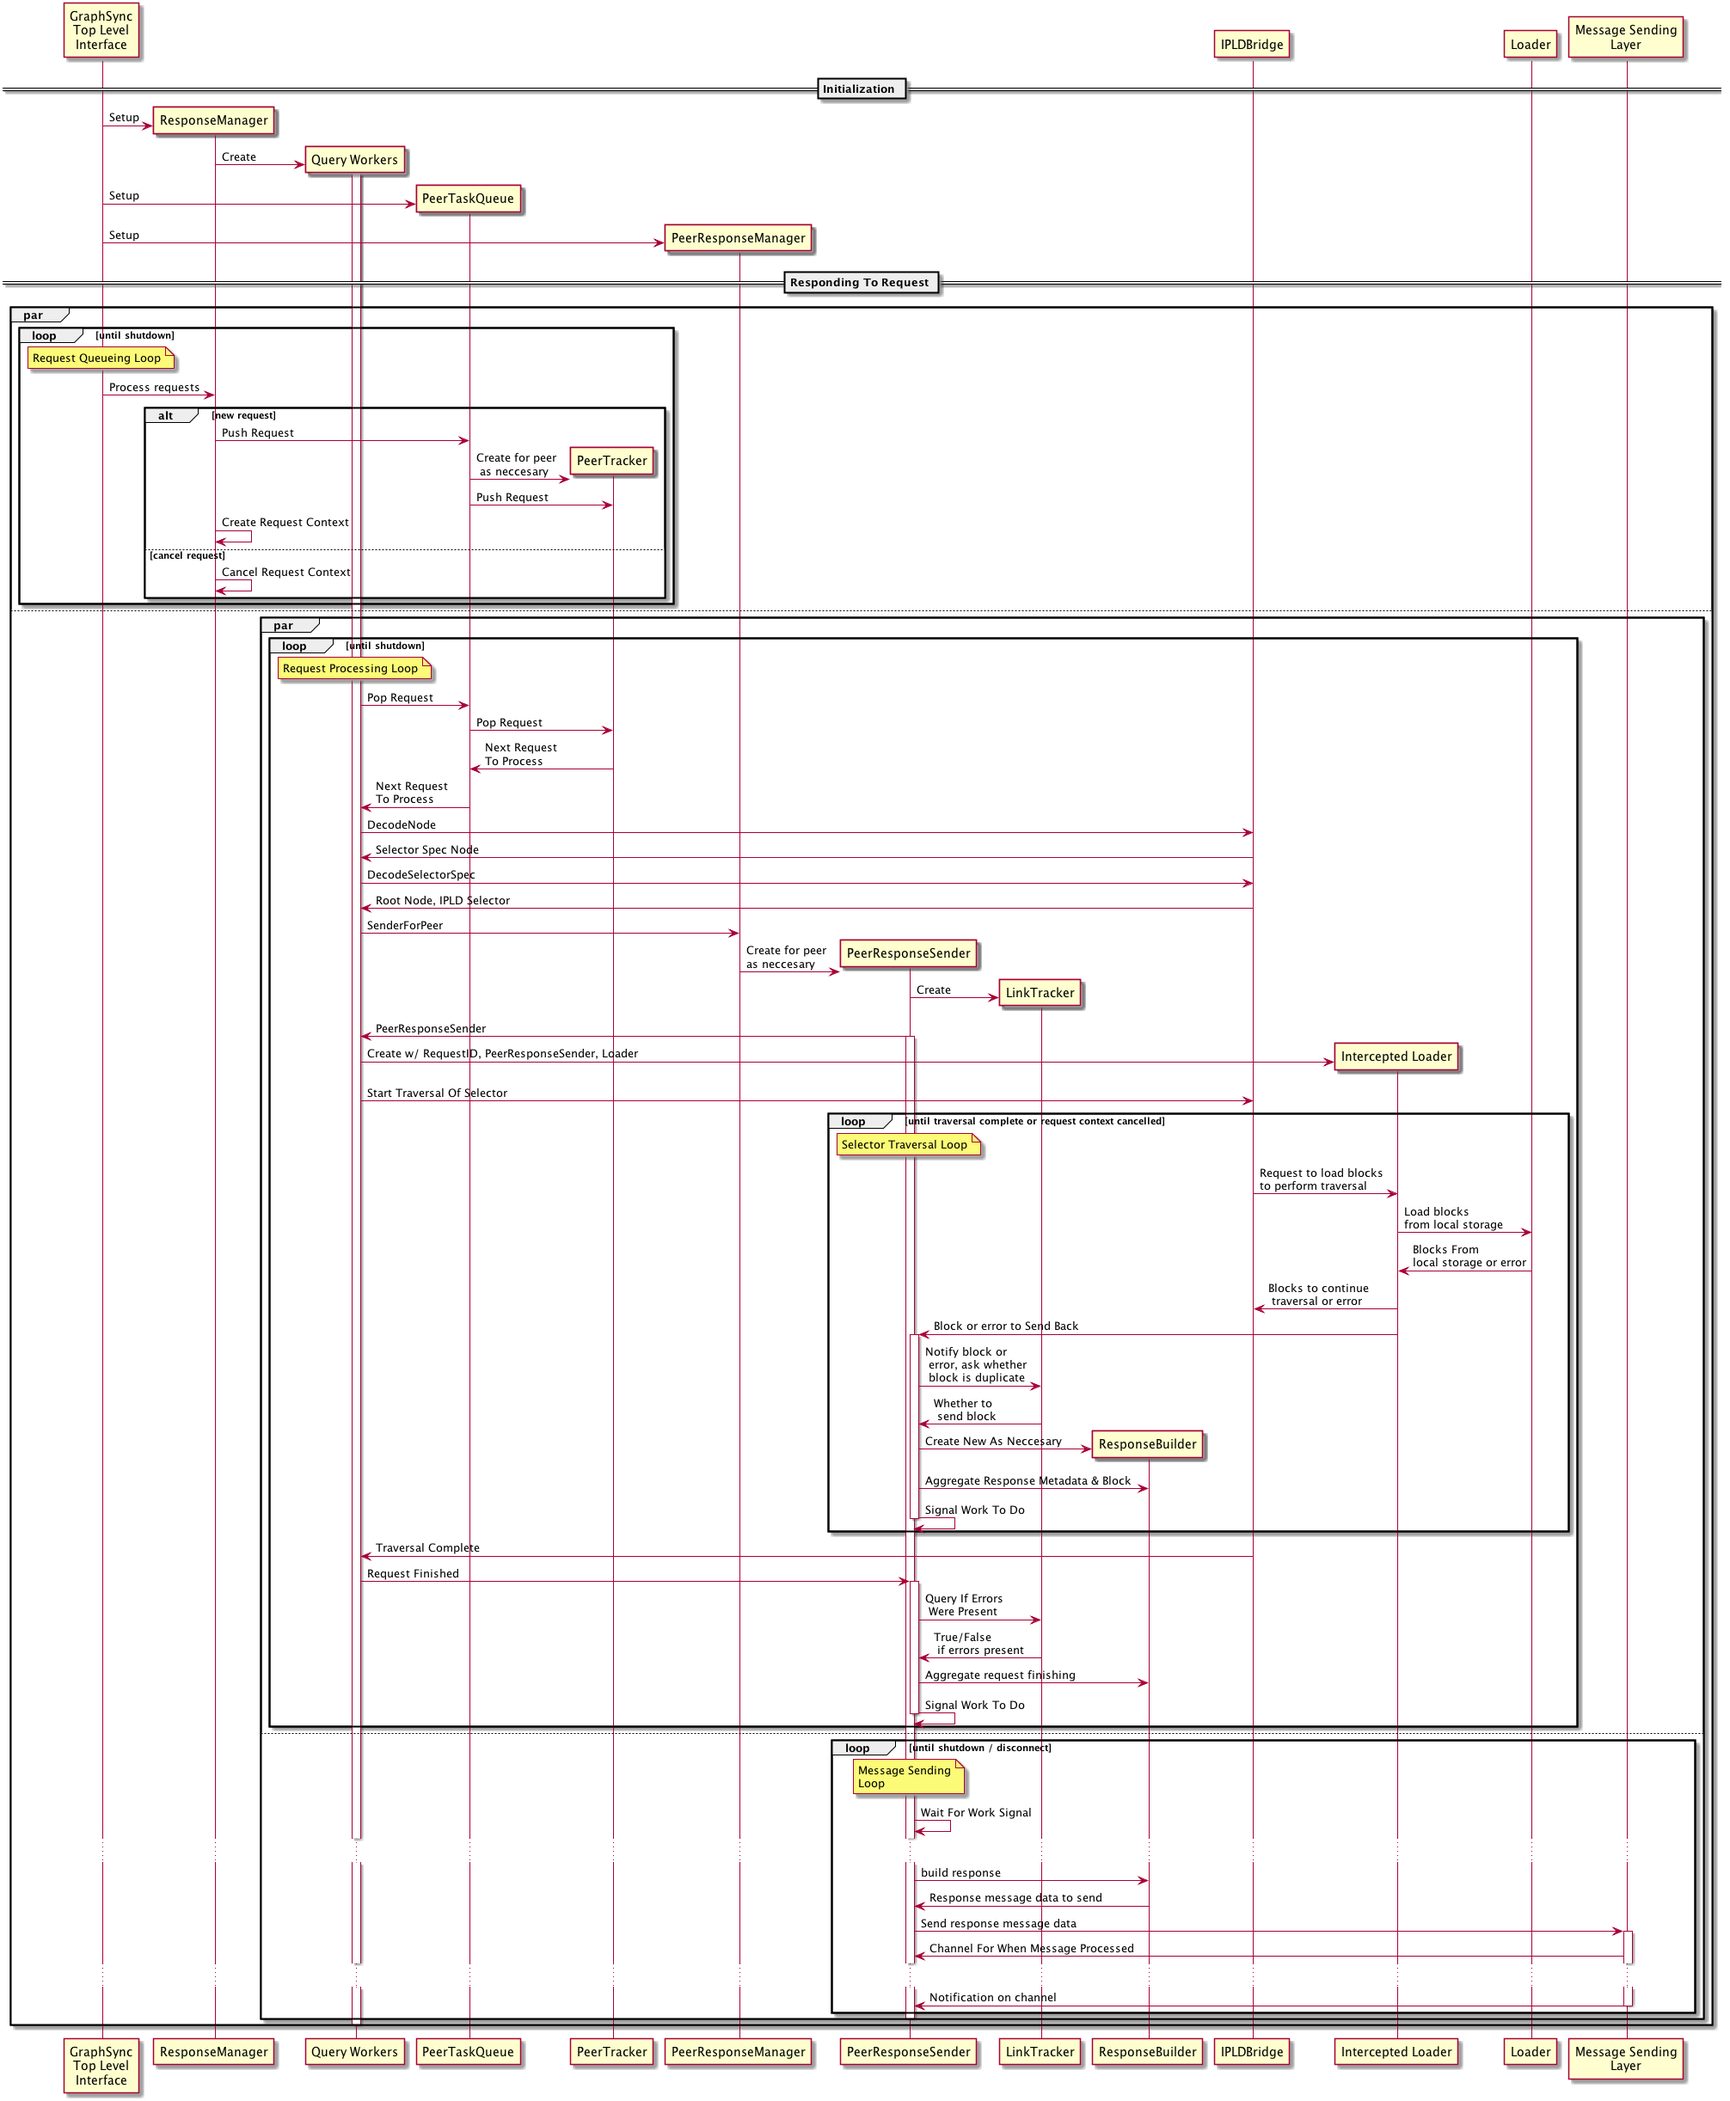
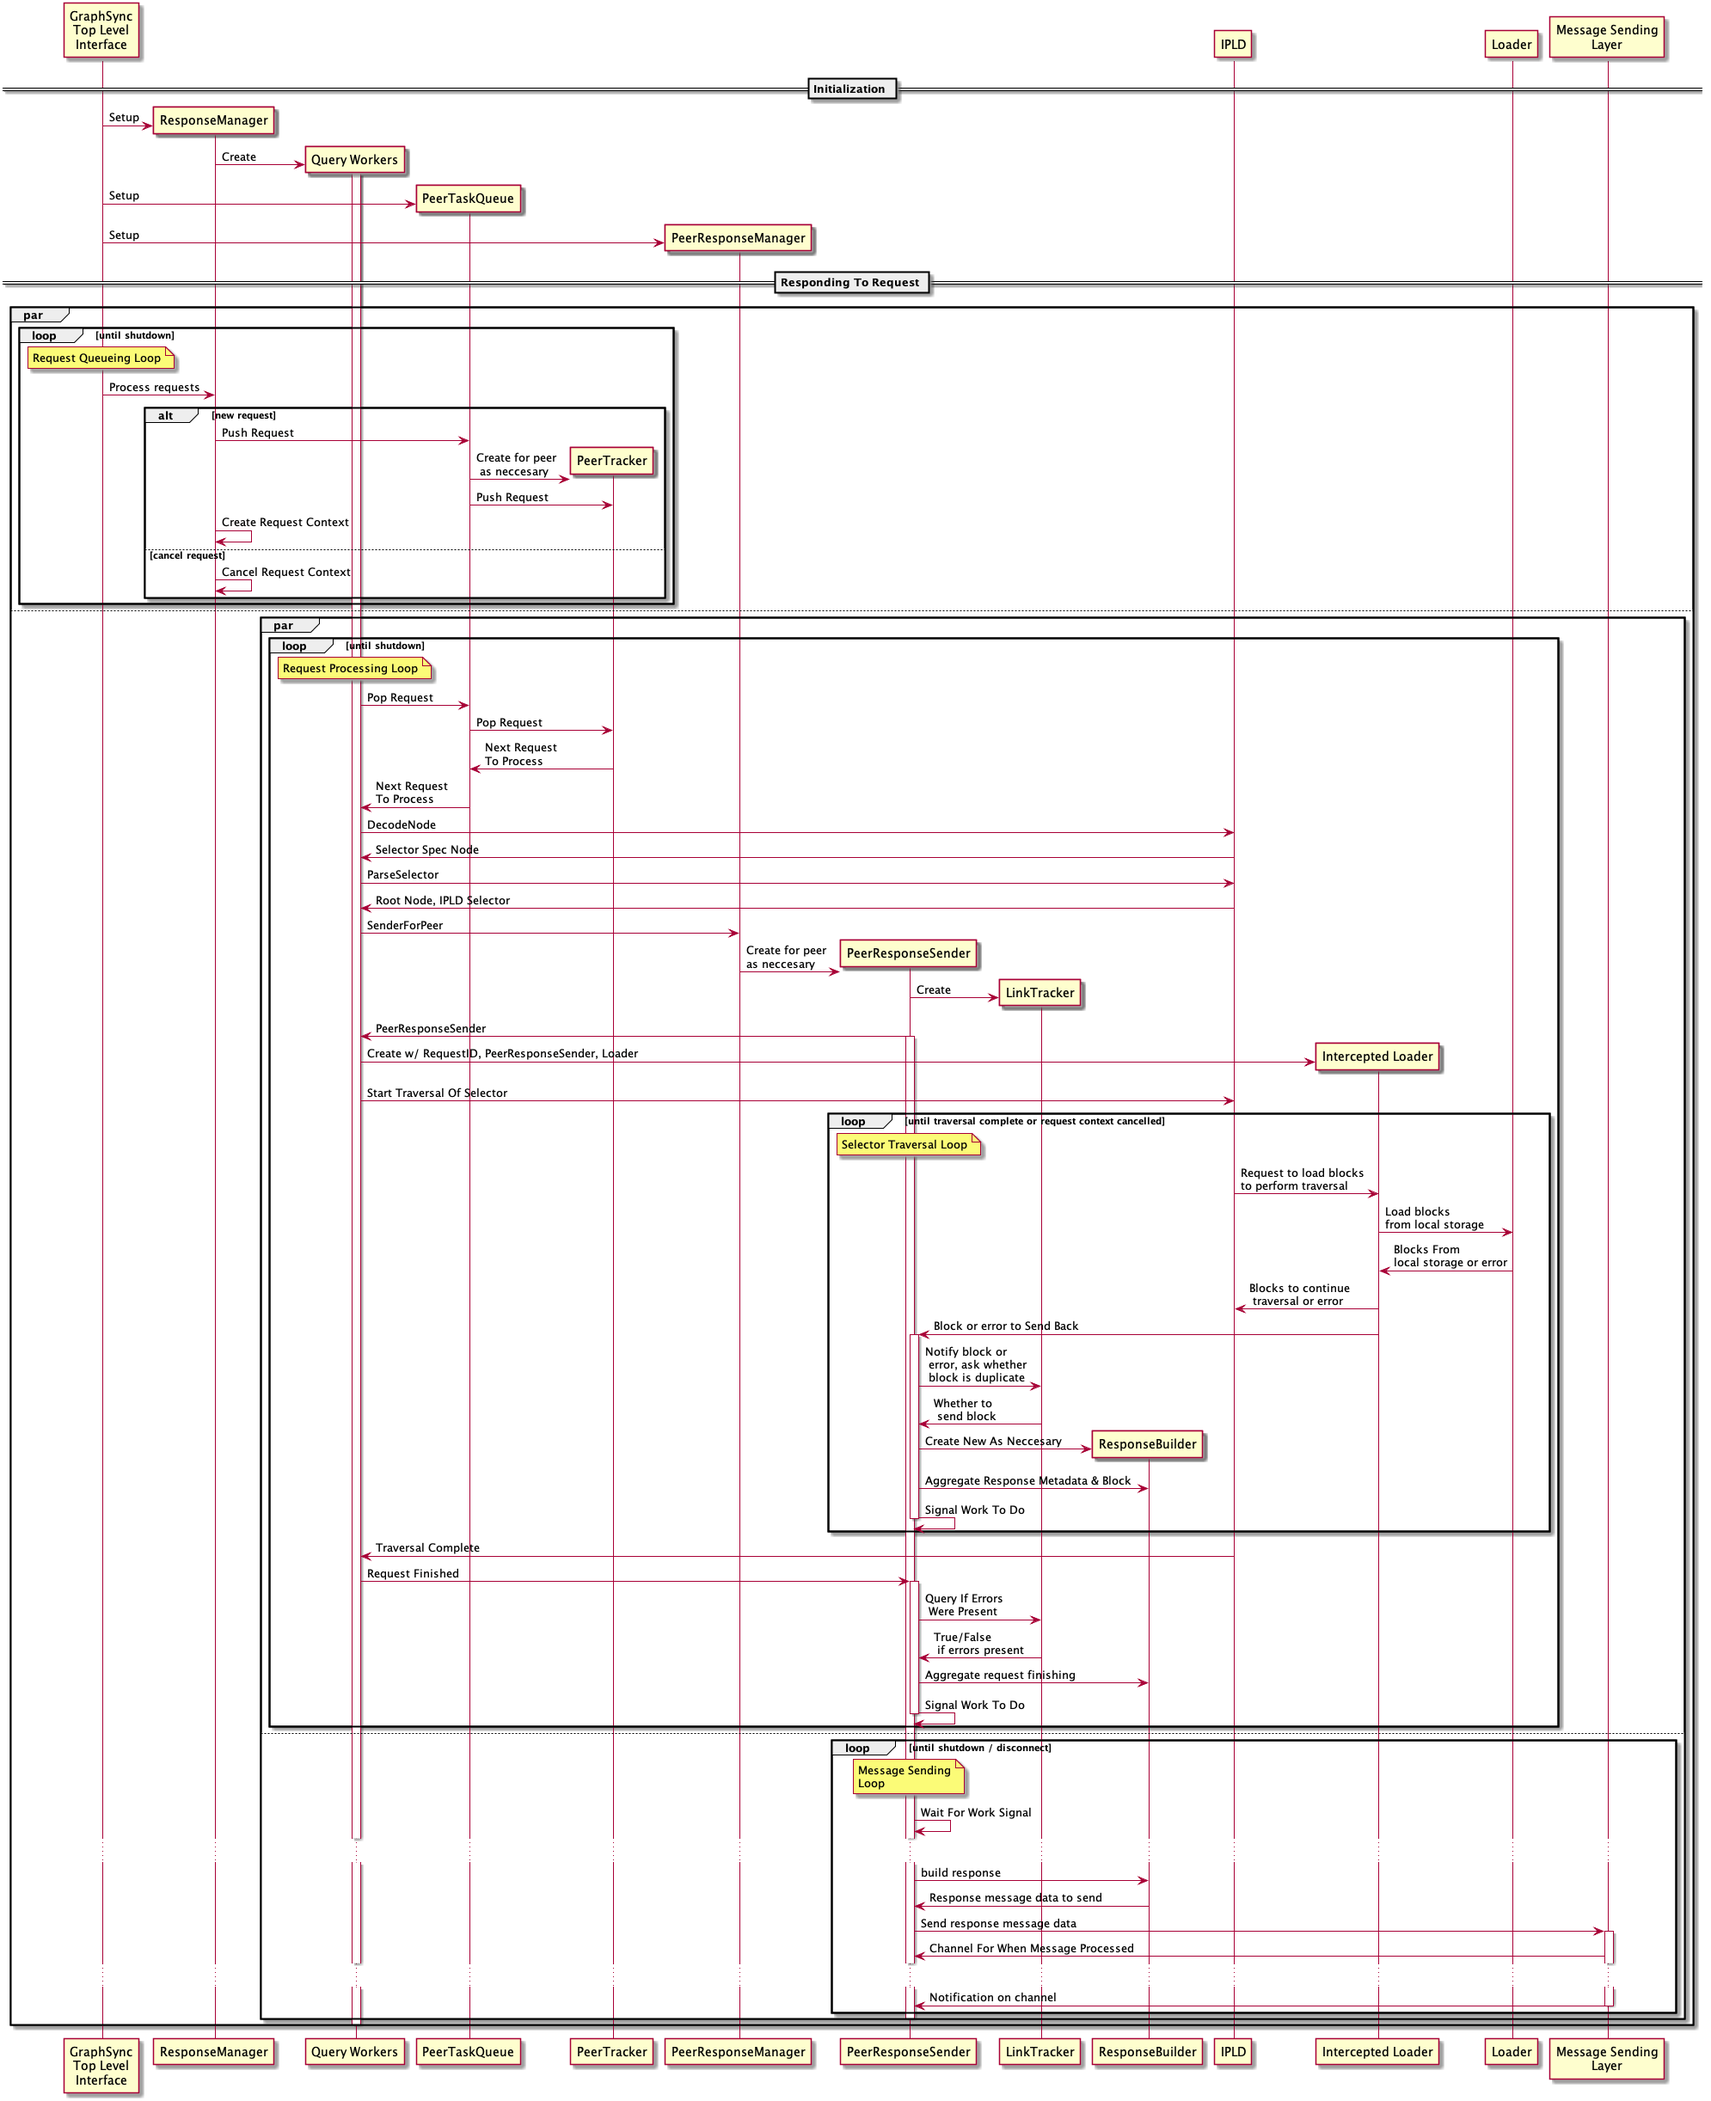
refactor(docs): remove bridge from docs

diff --git a/responsemanager/peerresponsemanager/peerresponsesender.go b/responsemanager/peerresponsemanager/peerresponsesender.go
@@ -60,7 +60,7 @@ type PeerResponseSender interface {
 }
 
 // NewResponseSender generates a new PeerResponseSender for the given context, peer ID,
-// using the given peer message handler and bridge to IPLD.
+// using the given peer message handler.
 func NewResponseSender(ctx context.Context, p peer.ID, peerHandler PeerMessageHandler) PeerResponseSender {
 	ctx, cancel := context.WithCancel(ctx)
 	return &peerResponseSender{

diff --git a/impl/graphsync.go b/impl/graphsync.go
@@ -38,7 +38,7 @@ type GraphSync struct {
 }
 
 // New creates a new GraphSync Exchange on the given network,
-// using the given bridge to IPLD and the given link loader.
+// and the given link loader+storer.
 func New(parent context.Context, network gsnet.GraphSyncNetwork,
 	loader ipld.Loader, storer ipld.Storer) graphsync.GraphExchange {
 	ctx, cancel := context.WithCancel(parent)
